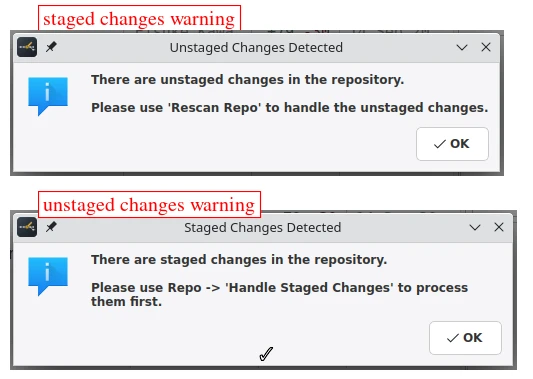
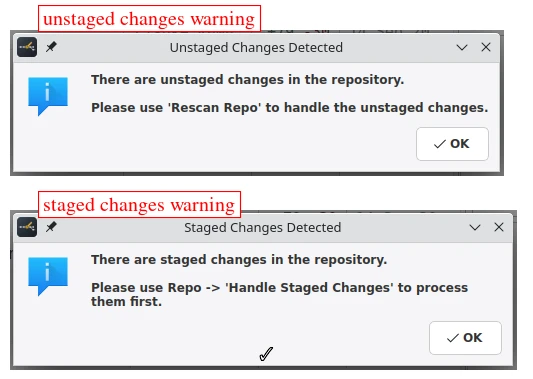
capture: staged-unstaged-changes-warning.webp

Changed region(s): [[0.06, 0.0, 0.5103, 0.0871], [0.06, 0.4934, 0.5103, 0.5805]]

diff --git a/main.py b/main.py
@@ -40,7 +40,7 @@ USER_CONFIG = Path.home() / ".config"
 # One line per screenshot: (script, [images the script must produce]).
 
 SCENES = []
-'''
+#'''
 SCENES += [("rephrase-and-drop-commit.py", ["rephrase-and-drop-commit.png"])]
 SCENES += [("mark-commits.py", ["mark-commits.png"])]
 SCENES += [("tag-commit.py", ["tag-commit.png"])]
@@ -76,10 +76,8 @@ SCENES += [("browse-branch.py", ["browse-branch.png"])]
 SCENES += [("main-menus.py", ["main-menus.png"])]
 SCENES += [("find-merge-base.py", ["find-merge-base.png"])]
 SCENES += [("pr-diff.py", ["pr-diff.png"])]
-'''
-
 SCENES += [("staged-unstaged-changes-warning.py", ["staged-unstaged-changes-warning.png"])]
-
+#'''
 
 
 # SCENES += [("test.py", ["test.png"])]
